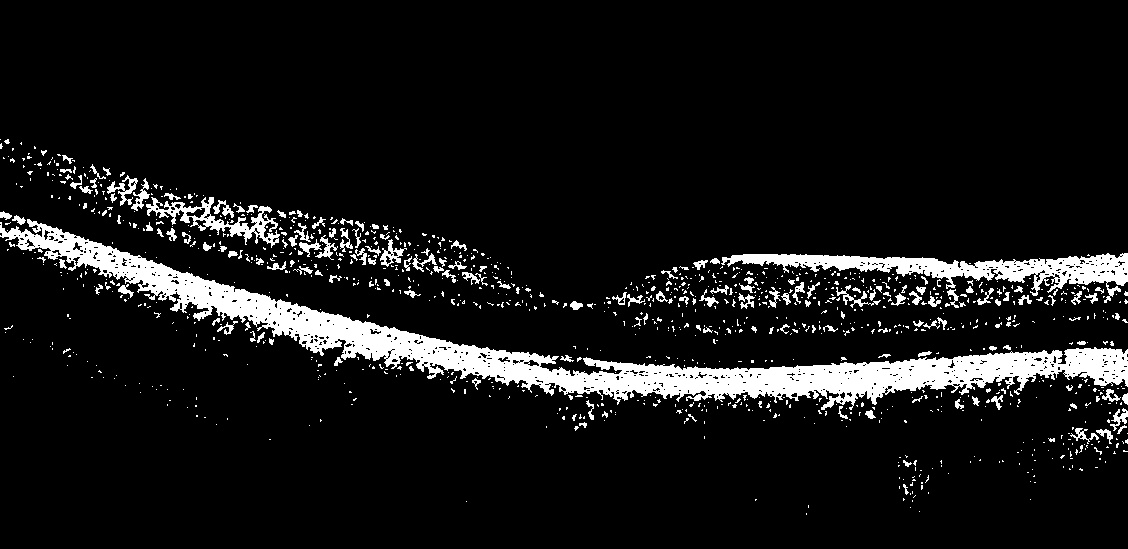
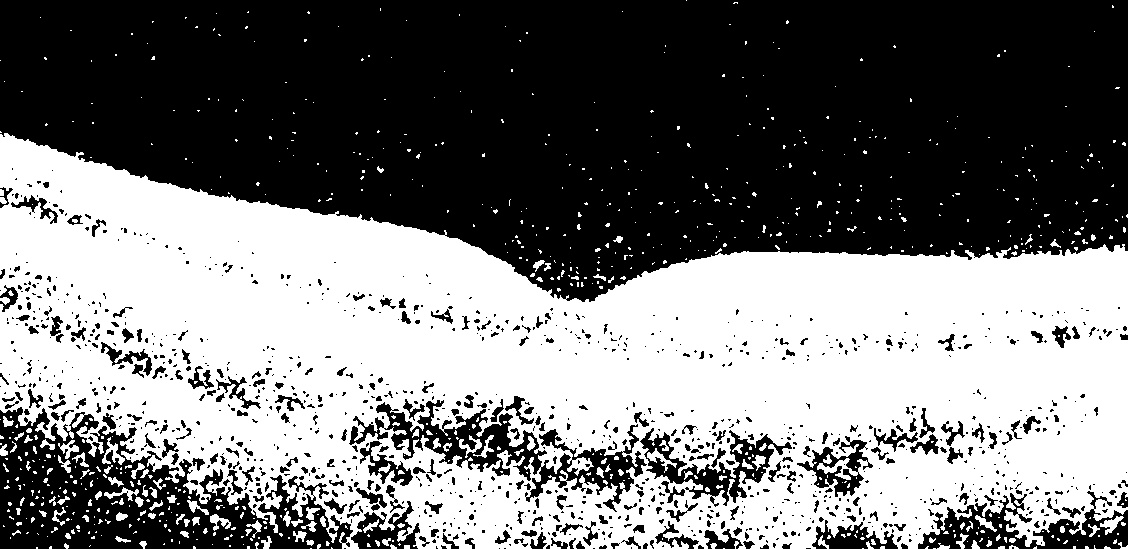
additional segmentation (4.2)

diff --git a/1. Exercise/main.py b/1. Exercise/main.py
@@ -18,7 +18,8 @@ raw_img = cv2.imread("./OCTimage_raw.tif",cv2.IMREAD_ANYCOLOR | cv2.IMREAD_ANYDE
 x, y = raw_img.shape
 bits=2**16
 n=5
-"""2 OCT image preprocessing framework -------------------------------------"""
+
+"""2 OCT image preprocessing framework (find functions in "FCNs_1_2.py")----"""
 #2.1 Histogram
 display_Histogram(raw_img,bits)
 
@@ -63,7 +64,7 @@ Neighborhood(Pixelx,Pixely,img)
 #2.5 Treshhold
 Threshold()
 """
-#3-----------------------------------------------------------------------
+"""3 Edge Detection (find functions in "FCNs_1_3.py")------------------------"""
 #3.1 Edge Detection with Sobel kernel
 Sobel_Filter = Sobel_kernel(Normalized_Img)
 
@@ -77,12 +78,12 @@ Threshold_boundries()
 #3.4 Canny Edge Detection
 Canny_Edge_Detection()
 """
-#4-----------------------------------------------------------------------
+"""4 Image Segmentation (find functions in "FCNs_1_4.py")--------------------"""
 #4.1 Otsu Threshholding Algorithm
-#Otsu_threshold = Otsu_Threshholding_Algorithm(raw_img)
+Otsu_threshold = Otsu_Threshholding_Algorithm(Normalized_Img)
 
 #4.2 Additional Segmentation Algorithm
-#Adaptive_Gaussian_Threshholding_Algorithm(raw_img)
+Triangle_Threshholding_Algorithm(Normalized_Img)
 
 #4.3 Segment Evaluation
-####""""------------------------------------------------------------------------"""
+

diff --git a/1. Exercise/Exercise_1_4_testing.py b/1. Exercise/Exercise_1_4_testing.py
@@ -9,19 +9,27 @@ import cv2
 import numpy as np
 from matplotlib import pyplot as plt
 
-img = cv2.imread("./OCTimage_raw.tif", cv2.IMREAD_ANYCOLOR | cv2.IMREAD_ANYDEPTH)
-#plt.imshow(img)
+img_norm = cv2.imread("./Normalized_Img.tif", cv2.IMREAD_ANYCOLOR | cv2.IMREAD_ANYDEPTH)
+plt.figure(1)
+plt.imshow(img_norm)
 
 # Otsu's thresholding
+img = np.uint8(img_norm*255)
+plt.figure(2)
+plt.imshow(img)
 Otsu_th,Otsu_img = cv2.threshold(img,0,255,cv2.THRESH_BINARY+cv2.THRESH_OTSU)
+plt.figure(3)
+plt.imshow(Otsu_img)
 cv2.imwrite("Otsu_Mask.jpg", Otsu_img)
 
 
-img = np.uint8(img)
 Triangle_th,Triangle_img = cv2.threshold(img,0,255,cv2.THRESH_TRIANGLE)
 cv2.imwrite("Triangle_Mask.jpg", Triangle_img)
 
-img1 = cv2.imread("./Sobel_vertical.jpg", cv2.IMREAD_ANYCOLOR | cv2.IMREAD_ANYDEPTH)
-img1 = cv2.GaussianBlur(img1, (55,55), 10)
+
+#img1 = cv2.imread("./Sobel_vertical.jpg", cv2.IMREAD_ANYCOLOR | cv2.IMREAD_ANYDEPTH)
+img1 = cv2.GaussianBlur(img, (11,11), 9)
 Otsu_th1,Otsu_img1 = cv2.threshold(img1,0,255,cv2.THRESH_BINARY+cv2.THRESH_OTSU)
-cv2.imwrite("Otsu_Mask1.jpg", Otsu_img1)
+cv2.imwrite("Otsu_Mask_gauss.jpg", Otsu_img1)
+Triangle_th1,Triangle_img1 = cv2.threshold(img1,0,255,cv2.THRESH_TRIANGLE)
+cv2.imwrite("Triangle_Mask_gauss.jpg", Triangle_img1)

diff --git a/1. Exercise/FCNs_1_4.py b/1. Exercise/FCNs_1_4.py
@@ -12,16 +12,15 @@ from matplotlib import pyplot as plt
 """ 4. Image Segmentation """
 
 # 4.1 Otsu thresholding algorithm
-def Otsu_Threshholding_Algorithm(img):
+def Otsu_Threshholding_Algorithm(img_norm):
     #compute threshold value and mask with otsu algorithm
+    img = np.uint16(img_norm*255)
     Otsu_th,Otsu_img = cv2.threshold(img,0,255,cv2.THRESH_BINARY+cv2.THRESH_OTSU)
     cv2.imwrite("Otsu_Mask.jpg", Otsu_img)
     return Otsu_th                     # return threshold value
-"""
-def Adaptive_Gaussian_Threshholding_Algorithm(img):
-    AGT_img = cv2.adaptiveThreshold(img, 255, cv2.ADAPTIVE_THRESH_GAUSSIAN_C,cv2.THRESH_BINARY,11,2)
-    plt.figure()
-    plt.title("Mask generated from Adaptive Gaussian Thresholding Algorithm using Otsu")
-    plt.imshow(AGT_img,'gray')
-    plt.savefig('AGT_Mask.png', dpi=600, bbox_inches='tight')
-"""
+
+def Triangle_Threshholding_Algorithm(img_norm):
+    img = np.uint8(img_norm*255)
+    Triangle_th,Triangle_img = cv2.threshold(img,0,255,cv2.THRESH_BINARY+cv2.THRESH_TRIANGLE)
+    cv2.imwrite("Triangle_Mask.jpg", Triangle_img)
+    return Triangle_th                 # return threshold value
